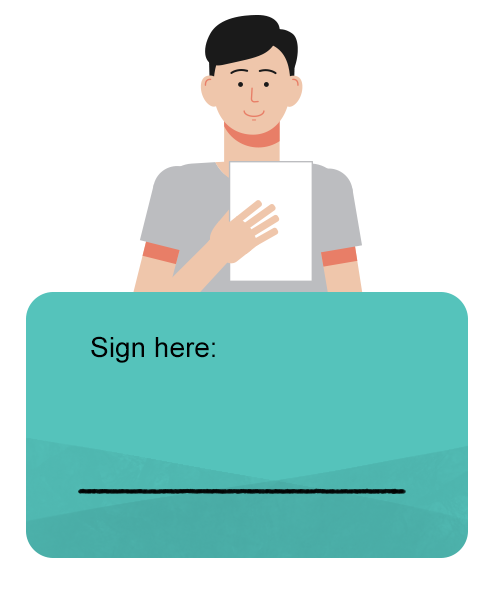
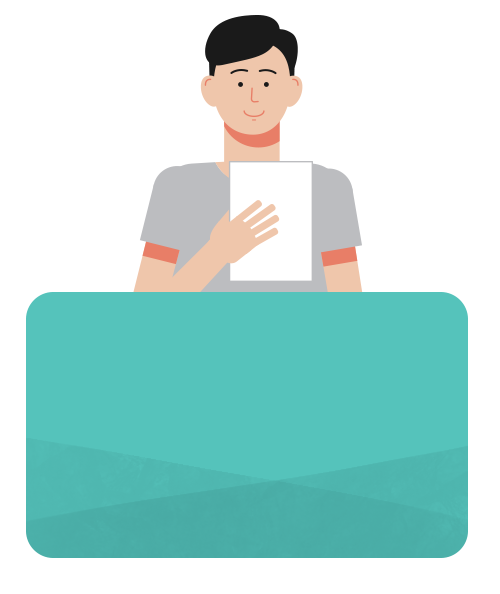
Change sign text

Changed region(s): [[0.15, 0.8182, 0.81, 0.8485], [0.18, 0.5455, 0.42, 0.6061]]

diff --git a/src/pages/SignForm.tsx b/src/pages/SignForm.tsx
@@ -96,6 +96,9 @@ export const SignForm: React.FC = () => {
         src="/assets/imgs/sign-form/i8-3-mike.png"
         alt=""
       />
+      <p className="text-xl absolute" style={{ bottom: 160 }}>
+        Sign anything here
+      </p>
       {SignPanel}
     </div>
   );
